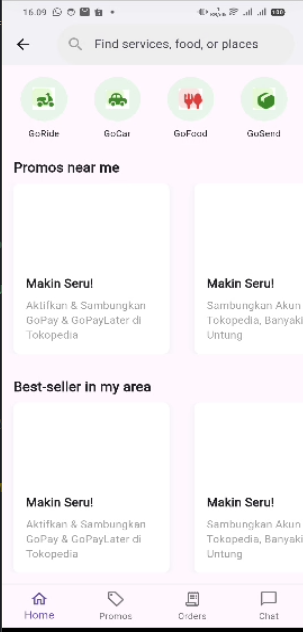
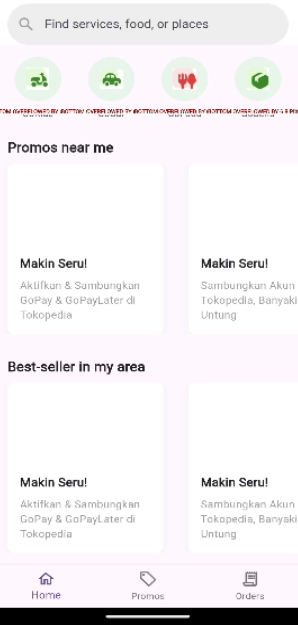
fixed

diff --git a/lib/modules/main/pesanan/view/orders_view.dart b/lib/modules/main/pesanan/view/orders_view.dart
@@ -84,9 +84,9 @@ class OrdersView extends StatelessWidget {
         type: BottomNavigationBarType.fixed,
         currentIndex: 2,
         onTap: (index) {
-          if (index == 0) Get.offAll('/home');
-          if (index == 1) Get.offAll('/promo');
-          if (index == 2) Get.offAll('/order');
+          if (index == 0) Get.offAndToNamed('/home');
+          if (index == 1) Get.offAndToNamed('/promo');
+          if (index == 2) Get.offAndToNamed('/order');
         },
         items: const [
           BottomNavigationBarItem(
@@ -100,10 +100,6 @@ class OrdersView extends StatelessWidget {
           BottomNavigationBarItem(
             icon: Icon(Icons.receipt_long_outlined),
             label: 'Orders',
-          ),
-          BottomNavigationBarItem(
-            icon: Icon(Icons.chat_bubble_outline),
-            label: 'Chat',
           ),
         ],
       ),

diff --git a/lib/modules/main/promo/view/promo_view.dart b/lib/modules/main/promo/view/promo_view.dart
@@ -108,9 +108,9 @@ class PromoView extends StatelessWidget {
         type: BottomNavigationBarType.fixed,
         currentIndex: 1,
         onTap: (index) {
-          if (index == 0) Get.offAll('/home');
-          if (index == 1) Get.offAll('/promo');
-          if (index == 2) Get.offAll('/order');
+          if (index == 0) Get.offAndToNamed('/home');
+          if (index == 1) Get.offAndToNamed('/promo');
+          if (index == 2) Get.offAndToNamed('/order');
         },
         items: const [
           BottomNavigationBarItem(
@@ -124,10 +124,6 @@ class PromoView extends StatelessWidget {
           BottomNavigationBarItem(
             icon: Icon(Icons.receipt_long_outlined),
             label: 'Orders',
-          ),
-          BottomNavigationBarItem(
-            icon: Icon(Icons.chat_bubble_outline),
-            label: 'Chat',
           ),
         ],
       ),

diff --git a/lib/modules/main/home/view/home_view.dart b/lib/modules/main/home/view/home_view.dart
@@ -81,9 +81,9 @@ class HomeView extends StatelessWidget {
         type: BottomNavigationBarType.fixed,
         currentIndex: 0,
         onTap: (index) {
-          if (index == 0) Get.offAll('/home');
-          if (index == 1) Get.offAll('/promo');
-          if (index == 2) Get.offAll('/order');
+          if (index == 0) Get.offAndToNamed('/home');
+          if (index == 1) Get.offAndToNamed('/promo');
+          if (index == 2) Get.offAndToNamed('/order');
         },
         items: const [
           BottomNavigationBarItem(
@@ -97,10 +97,6 @@ class HomeView extends StatelessWidget {
           BottomNavigationBarItem(
             icon: Icon(Icons.receipt_long_outlined),
             label: 'Orders',
-          ),
-          BottomNavigationBarItem(
-            icon: Icon(Icons.chat_bubble_outline),
-            label: 'Chat',
           ),
         ],
       ),

diff --git a/lib/modules/login/controller/login_controller.dart b/lib/modules/login/controller/login_controller.dart
@@ -9,7 +9,7 @@ class LoginController extends GetxController {
 
   void handleContinue() {
     if (phoneNumber.value.isNotEmpty) {
-      Get.toNamed('/home');
+      Get.offAllNamed('/home');
     } else {
       Get.snackbar('Error', 'Phone number is required');
     }

diff --git a/lib/main.dart b/lib/main.dart
@@ -23,6 +23,7 @@ class MainApp extends StatelessWidget {
   @override
   Widget build(BuildContext context) {
     return GetMaterialApp(
+      debugShowCheckedModeBanner: false,
       title: 'Flutter Demo',
       theme: ThemeData(
         primarySwatch: Colors.blue,
